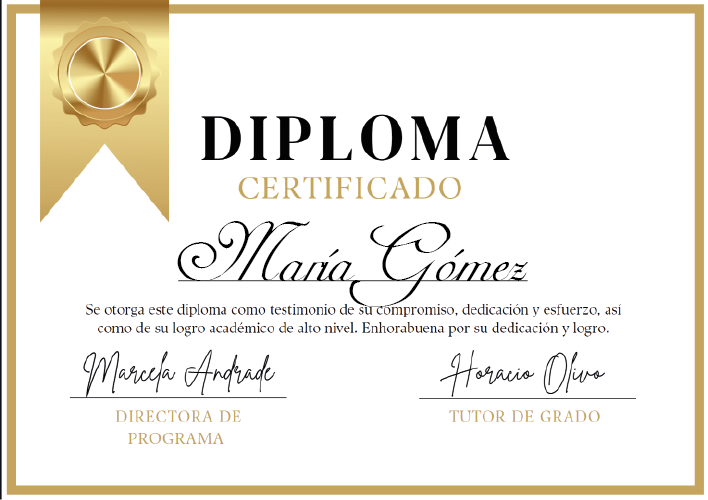
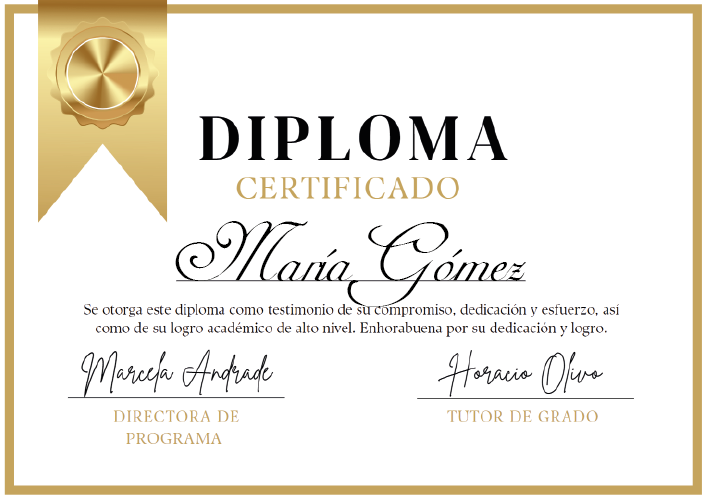
EntregaFinalJS

diff --git a/styles.css b/styles.css
@@ -92,6 +92,9 @@ th, td {
 .notas, .notas1, .notas2, .notas3,
 .notas4, .notas5, .notas6, .notas7, .notas8, .notas9 {
     width: 32px;
+    border-radius: 5px;
+    border-color: white;
+    font-size: 12px;
 }
 
 aside {
@@ -104,9 +107,20 @@ aside {
     box-shadow: 3px 3px 0px #8989bfc7;
 }
 
+#fraseCSS{
+    font-style: italic;
+    color: white;
+    filter: drop-shadow(1px 1px 2px black);
+}
+
 #avisoTareaVacia{
     font-size: 12px;
     color: red;
+}
+
+#tareasPendientes{
+    border-radius: 15px;
+    border-color: white;
 }
 
 ul {
@@ -133,6 +147,21 @@ button:hover {
     border-radius: 20px;
     transition: 0.5s;
 }
+
+
+#certificadoIMG{
+    border-radius: 3px;
+    width: 300px;
+    transition: width 0.5s;
+    box-shadow: 5px 5px 5px #41b480d9;
+}
+
+#certificadoIMG:hover {
+    width: 700px;
+    transition: 0.5s;
+}
+
+
 
 /*css contacto*/
 
@@ -209,15 +238,6 @@ footer p {
     margin: 0;
 }
 
-#certificadoIMG{
-    width: 300px;
-    transition: width 0.5s;
-}
-
-#certificadoIMG:hover {
-    width: 600px;
-    transition: 0.5s;
-}
 
 /* RESPONSIVE tablets*/
 
@@ -269,5 +289,9 @@ footer p {
     #certificadoIMG:hover {
         width: 230px;
         transition: 0.5s;
+    }
+
+    #comentario {
+        width: 280px;
     }
 }

diff --git a/js/miarchivo.js b/js/miarchivo.js
@@ -58,7 +58,7 @@ fetch(URL)
         const randomQuote = data.quotes[Math.floor(Math.random() * data.quotes.length)]; // Quote aleatoria
         const li = document.createElement("li");
         li.innerHTML = `
-            <h4>"${randomQuote.quote}"</h4>
+            <h4 id="fraseCSS">"${randomQuote.quote}"</h4>
             <p>- ${randomQuote.author}.</p>
         `;
         frase.append(li);
@@ -1053,6 +1053,7 @@ document.addEventListener("DOMContentLoaded", function() {
     });
 });
 
+
 ////////////////////////// INFORME FINAL ALUMNO 3
 
 document.addEventListener("DOMContentLoaded", function() {
@@ -1120,12 +1121,11 @@ document.addEventListener("DOMContentLoaded", function() {
     selectorFinal.addEventListener("change", function() {
         actualizarInformeFinal();
     });
-
     actualizarInformeFinal();
 });
 
 
-////////// CERTIFICADO CON API y FETCH
+////////// CERTIFICADO CON API LOCAL y FETCH
 
 let certificadosCargados = false;
 

diff --git a/index.html b/index.html
@@ -344,7 +344,7 @@
                                 <br><br>
                                 <label for="comentario"> Deja tu comentario, duda o sugerencia: </label>
                                 <br><br>
-                                <textarea name="comentario" id="comentario" cols="50" rows="5" required>Escribí tus consultas aquí!</textarea>   
+                                <textarea name="comentario" id="comentario" cols="50" rows="5" placeholder="Escribí tus consultas aquí!" required></textarea>   
                             </fieldset>   
                             <br>    
                             <button type="submit" class="botonContacto" id="enviar"> Enviar </button>
